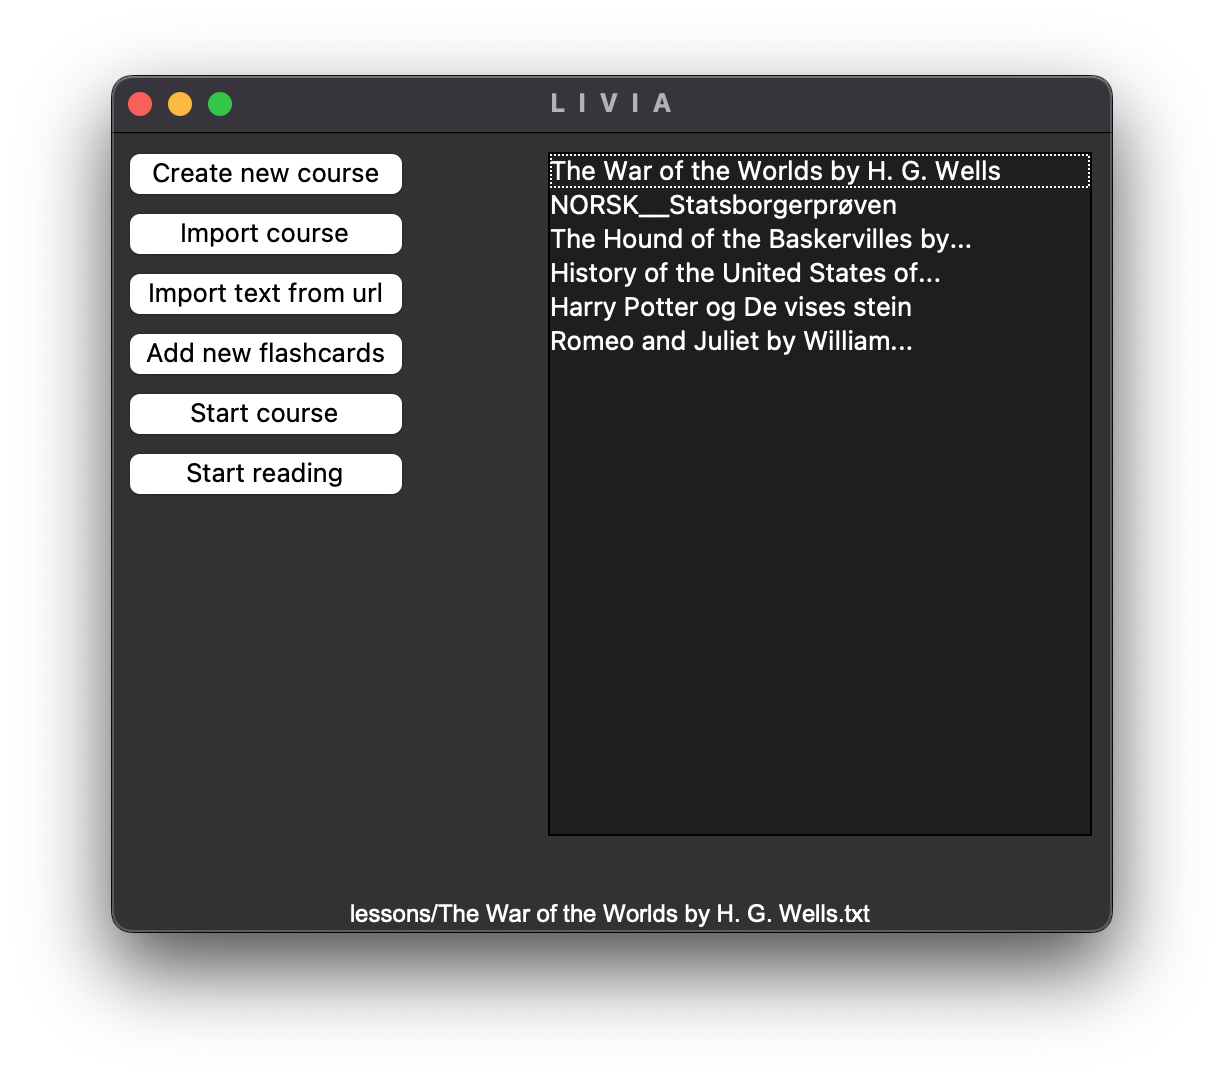
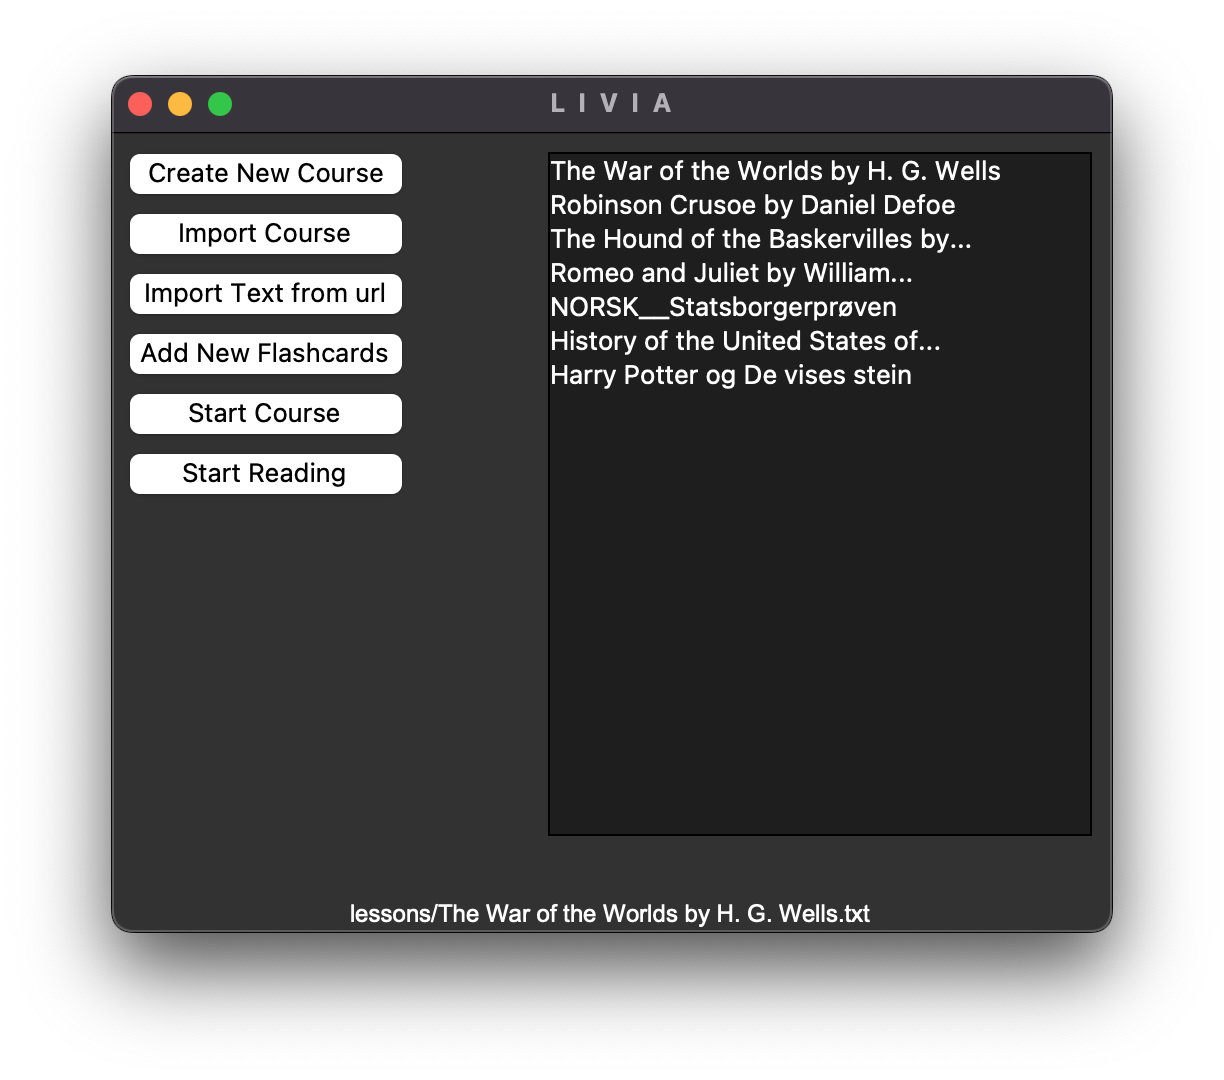
Readme file added.

diff --git a/start_course.py b/start_course.py
@@ -9,6 +9,12 @@ import configuration
 import book_configuration
 
 
+# TODO: algorytm powtórek
+# TODO: baza danych mysql
+# TODO: wybór języków
+# TODO: installation guide
+# TODO: testing
+
 class CourseDialog:
     def __init__(self, root, dictionary: dict, file_path: str, course_name: str):
         """
@@ -24,7 +30,8 @@ class CourseDialog:
         ui.center_window(self.top, 550, 400)
 
         self.dictionary = dictionary
-        self.question_word = random.choice(list(self.dictionary.keys()))    # Wylosowanie słowa z kluczy w słowniku.
+        self.copy_dictionary = dictionary.copy()   # Kopia do usuwania dobrych odpowiedzi podczas przepytywania.
+        self.question_word = random.choice(list(self.copy_dictionary.keys()))   # Wylosowanie słowa z kluczy w słowniku.
         self.show_translated_sentence = 0   # Liczba pomocnicza do wyświetlenia tłumaczenia zdania.
 
         frame_top = ui.create_frame(self.top, 'top')
@@ -49,8 +56,8 @@ class CourseDialog:
         self.course_name = course_name
 
         self.reverse_number = 1     # Zmienna kontrolująca tryb odwrócony
-        self.answer_word = self.dictionary[self.question_word][0]
-        self.sentence = self.dictionary[self.question_word][1]
+        self.answer_word = self.copy_dictionary[self.question_word][0]
+        self.sentence = self.copy_dictionary[self.question_word][1]
 
     def reverse(self):
         """
@@ -85,9 +92,9 @@ class CourseDialog:
         self.search_sentence_button.config(text='Search sentence', command=self.search_sentence)
 
         # Wylosowanie fiszki.
-        self.question_word = random.choice(list(self.dictionary.keys()))
-        self.answer_word = self.dictionary[self.question_word][0]
-        self.sentence = self.dictionary[self.question_word][1]
+        self.question_word = random.choice(list(self.copy_dictionary.keys()))
+        self.answer_word = self.copy_dictionary[self.question_word][0]
+        self.sentence = self.copy_dictionary[self.question_word][1]
 
         if self.reverse_number % 2 != 0:
             self.question_label.config(text=self.question_word, fg='systemTextColor')
@@ -154,8 +161,8 @@ class CourseDialog:
 
             if answer_correct:
                 self.question_label.config(text=self.question_word + '\n' + ', '.join(answer_correct), fg="green")
-                if len(self.dictionary) > 1:
-                    self.dictionary.pop(self.question_word)
+                if len(self.copy_dictionary) > 1:
+                    self.copy_dictionary.pop(self.question_word)
                 else:
                     messagebox.showinfo("THE END.", f"End of the flashcards.")
             self.answer_label.config(text=f"{self.answer_word}{'\n'} Sentence: {self.sentence}")
@@ -163,8 +170,8 @@ class CourseDialog:
         else:
             if answer_correct:
                 self.question_label.config(text=self.answer_word + '\n' + ', '.join(answer_correct), fg="green")
-                if len(self.dictionary) > 1:
-                    self.dictionary.pop(self.question_word)
+                if len(self.copy_dictionary) > 1:
+                    self.copy_dictionary.pop(self.question_word)
                 else:
                     messagebox.showinfo("THE END.", f"End of the flashcards.")
             self.answer_label.config(text=f"{self.question_word}{'\n'} Sentence: {self.sentence}")

diff --git a/main_window.py b/main_window.py
@@ -34,12 +34,12 @@ class LiviaApp:
         # Przypisanie fiszek do słownika.
         self.dictionary = configuration.import_flashcards_to_dictionary(self.file_path)
 
-        ui.create_button(self.master, "Create new course", self.create_new_course, 'place', {'x': 5, 'y': 5})
-        ui.create_button(self.master, "Import course", self.import_from_user_selection, 'place', {'x': 5, 'y': 35})
-        ui.create_button(self.master, "Import text from url", self.import_from_url, 'place', {'x': 5, 'y': 65})
-        ui.create_button(self.master, "Add new flashcards", self.new_word_input, 'place', {'x': 5, 'y': 95})
-        ui.create_button(self.master, "Start course", self.start_learning, 'place', {'x': 5, 'y': 125})
-        ui.create_button(self.master, "Start reading", self.start_reading, 'place', {'x': 5, 'y': 155})
+        ui.create_button(self.master, "Create New Course", self.create_new_course, 'place', {'x': 5, 'y': 5})
+        ui.create_button(self.master, "Import Course", self.import_from_user_selection, 'place', {'x': 5, 'y': 35})
+        ui.create_button(self.master, "Import Text from url", self.import_from_url, 'place', {'x': 5, 'y': 65})
+        ui.create_button(self.master, "Add New Flashcards", self.new_word_input, 'place', {'x': 5, 'y': 95})
+        ui.create_button(self.master, "Start Course", self.start_learning, 'place', {'x': 5, 'y': 125})
+        ui.create_button(self.master, "Start Reading", self.start_reading, 'place', {'x': 5, 'y': 155})
 
         # Stworzenie listbox do wyświetlenia listy wszystkich dostępnych kursów i do szybkiego wyboru kursu do nauki.
         self.listbox = ui.ListBox(self, self.courses_list)

diff --git a/book_configuration.py b/book_configuration.py
@@ -34,19 +34,14 @@ def book_text_cleaning(content: list) -> tuple:
     if book_content_checkout(content) is True:
         # Szukanie indeksu początku książki.
         start_index = next((i for i, line in enumerate(content) if 'START OF THE PROJECT GUTENBERG' in line), 0)
-        print(start_index)
         start_index = next(i + start_index + 1 for i, line in enumerate(content[start_index:])
                            if 'content' in line.lower())
-        print(start_index)
         start_index = next(i + start_index for i, line in enumerate(content[start_index:]) if line.strip())
-        print(start_index)
 
         # Szukanie indeksu końca książki.
         end_index = next((i for i, line in enumerate(content) if
                           'END OF THE PROJECT GUTENBERG EBOOK' in line), len(content))
-        print('end index:', end_index)
         end_index = next(end_index - i for i, line in enumerate(reversed(content[:end_index])) if line.strip())
-        print('end index:', end_index)
 
         # Wydzielenie tekstu książki pomiędzy znalezionymi indeksami.
         content = content[start_index:end_index]
@@ -58,7 +53,6 @@ def book_text_cleaning(content: list) -> tuple:
 
         # Usunięcie ewentualnych pustych linii z końca spisu treści, jeżeli spis treści został wyodrębniony.
         toc = content[:toc_index]
-        print(toc_index)
         if toc:
             while not toc[-1].strip():
                 toc.pop()

diff --git a/search_sentence.py b/search_sentence.py
@@ -90,10 +90,6 @@ class AddSentence:
                 if self.show_translated_sentence:
                     self.translate_label.config(text=self.translated_sentence)
 
-                # Wyłączenie przycisku 'save' jeżeli zdanie w fiszkach jest identyczne.
-                if self.current_sentence == self.founded_sentences[self.current_index]:
-                    self.save_button.config(state=tk.DISABLED)
-
             else:
                 self.original_sentence_label.config(fg="systemTextColor")
                 if self.show_translated_sentence:

diff --git a/new_course.py b/new_course.py
@@ -12,7 +12,6 @@ class CourseCreate:
         :param courses_list: Lista kursów do sprawdzenia, czy plik o podanej nazwie już istnieje.
         """
         self.top = tk.Toplevel(root)
-
         ui.center_window(self.top, 400, 100)
 
         # Zmienna pomocnicza do uzyskania informacji, czy metoda create_file została wykonana do końca.

diff --git a/README.md b/README.md
@@ -1,119 +1,108 @@
 # <center>L I V I A</center>
 
+<br>
 
-
-## Co to jest LIVIA?
-W tym repozytorium jest program GUI, który służy do nauki języka poprzez czytanie tekstów z zaimportowanych plików 
-tekstowych. W programie jest możliwość dodawania fiszek do kursów w trakcie czytania wraz z automatycznie dodawanymi 
-zdaniami i tłumaczeniami generowanymi za pomocą klucza API OpenAI.
-
-<sub>*Program na razie służy tylko do nauki języka angielskiego dla osób mówiących w języku polskim.</sub>
-
+## What is LIVIA?
+This repository contains a GUI program designed for language learning through reading imported text files. The program 
+enables users to create flashcards during reading, with automatically generated sentences and translations using the 
+OpenAI.
+<sub>*Currently, the program is ready for Polish speakers to learn English.</sub>
 
 ## Why?
-Korzystając z programu, można uczyć się języka w bardzo praktyczny sposób. Czytając tekst, widzimy od razu, w jakim 
-kontekście używane są słowa, dodatkowo możemy wygenerować tłumaczenie słowa pasujące do kontekstu w zdaniu, a nawet 
-w całym tekście. Program najlepiej działa podczas czytania książek, których darmowe wersje w formie czystego 
-tekstu można pobrać za darmo (np. ze strony Gutenberg.org).
-
+Using the program, you can learn the language in a very practical way. By reading the text, you immediately see how 
+words are used in context. Additionally, you can generate translations for words that fit the context. The program is 
+most effective when used for reading books, especially those available in free plain-text versions that can be 
+downloaded for free from gutenberg.org.
 
 ## How does it work?
-LIVIA używa API OpenAI do generowania tłumaczeń prezentując tłumacze zgodnie z kontekstem zawartym w wybranej frazie
-i tłumacząc zdania, zgodnie z kontekstem zawartym w tekście (prezentując tłumaczenie w stylu literackim pasującym 
-do danego autora w przypadku tłumaczeń z książek).
+LIVIA uses the OpenAI tool to help with translations. It shows translations in a way that makes sense for the chosen 
+phrase. It translates sentences in a style that matches the writing style of the author
 
+## Main program window.
+In the main window of the program, there is a list on the right side containing several default courses ready for 
+learning. In the course "The War of the Worlds by H. G. Wells," there are over 1500 prepared flashcards. Other courses 
+include either prepared books for reading or, as in the case of Norwegian language courses, only flashcards without 
+texts. You can choose a course from the list for learning. At the bottom of the window, there is a label displaying 
+the path of the currently opened course.
+<img src="./images/Main_window.png" alt="main window screenshot" width="500" height="400">
 
-## Główne okno programu.
-W głównym oknie programu. W liście po prawej stronie mamy kilka domyślnych kursów przygotowanych do nauki.
-W kursie "The War of the Worlds by H. G. Wells" jest przygotowanych ponad 1500 gotowych fiszek. Pozostałe kursy 
-zawierają tylko przygotowane książki do czytania lub jak w przypadku kursów w języku norweskim tylko fiszki bez tekstów. 
-Z listy wybieramy kurs do nauki. Na dole okna znajduje się etykieta z nazwą aktualnie otwartego kursu.
-![main window screenshot](./images/Main_window.png)
+###### Buttons:
+- "Create new course" - Opens a window to create a new course with an empty flashcard list.
+- "Import course" - Imports a file with a course from an external source (e.g. "Anki").
+- "Import text from URL" -  Opens a window to upload the content of a webpage with the text you want to connect with 
+a course.
+- "Add new flashcards" - Opens a window to add new flashcards.
+- "Start course" - Opens a window for flashcard examination.
+- "Start reading" - Opens a window for reading text and adding words to flashcards.
 
-### Przyciski:
-- "Create new course" - Otwiera okno do stworzenia nowego kursu z pustą listą fiszek.
-- "Import course" - Importuje plik z kursem z zewnętrznego źródła (np. z programu "Anki").
-- "Import text from url" - Otwiera okno do pobrania zawartości strony z tekstem, który chcemy połączyć z danym kursem.
-- "Add new flashcards" - Otwiera okno do dodawania nowych fiszek spoza okna "reading".
-- "Start course" - Otwiera okno do przepytywania z fiszek.
-- "Start reading" - Otwiera okno do czytania tekstu i dodawania słów do fiszek.
-
-## Okno "create new course".
+## Create New Course.
 ![create new course window screenshot](./images/Create_new_course_window.png)
-W oknie "create new course" tworząc nowy kurs, należy pamiętać, żeby nazwa pliku była w języku angielskim według wzoru: 
-'tytuł książki by autor' jak na zdjęciu). Wówczas generowane tłumaczenia będą najdokładniejsze.
+While creating a new course in the "Create New Course" window, it's important to ensure that the file name follows 
+the pattern in English: '{book title} by {author}' (as shown in the picture). This ensures the most accurate 
+generation of translations.
 
-## Importowanie pliku z zewnętrznego źródła.
-Podczas importowania pliku przez użytkownika przy użyciu "Import course" należy pamiętać, że jeżeli wewnątrz pliku układ 
-znaków będzie nieodpowiedni, plik nie zostanie zaimportowany. Program importuje jedynie dwa rodzaje plików tekstowych 
-pochodzące z programu LIVIA lub z Anki.
+## Importing a File from an External Source.
+When using the "Import Course" feature, it is important to note that the file won't be imported if the character 
+encoding inside the file is inappropriate. The program supports the import of two types of text files: 
+those from the "LIVIA" or "Anki".
 
-## Okno "Import text from url".
+## Import Text from URL.
 ![requests window screenshot](./images/Requests_window.png)
-W oknie do importowania tekstów do kursów podając nazwę pliku, użyj takiej samej nazwy, jaką ma kurs, z którym chcesz 
-go połączyć. Jeżeli chcesz samemu dopasować tekst, możesz edytować ręcznie plik .txt i zostawić tylko to, co chcesz.
+When importing texts into courses and providing a file name, use the same name as the course you want to connect it 
+with. If you wish to manually customize the text, you can edit the .txt file and keep only what you want.
 
-## Okno "Add new flashcards".
+## Add new flashcards.
 ![add new flashcards window screenshot](./images/Add_new_flashcards_window.png)
-W oknie "Add new flashcards" dodajemy nowe słowa i zdania do fiszek. Należy pamiętać, że w tym oknie nie działa 
-tłumaczenie zdań, a tłumaczenie słowa jest możliwe tylko, gdy jest wprowadzone zdanie. Tłumaczenia dla zwykłych tekstów 
-nie są jeszcze dostępne, dlatego korzystanie z tego okna w celu generowania tłumaczeń nie jest zalecane, a tłumaczenie 
-zdań nie jest obsługiwane.
+In the "Add New Flashcards" window, you can add new words and sentences to flashcards. Please note that sentence 
+translation does not work in this window; translation of words is only possible when a sentence is entered. Translations 
+for regular texts are not yet available, so using this window for generating translations is not recommended, and 
+sentence translation is not supported.
 
-## Okno "Start course".
+## Start course.
 ![start course window screenshot](./images/Start_course_window.png)
-W tym miejscu można sprawdzić znajomość słówek. Jeżeli odpowiedź będzie prawidłowa, słowa zostaną wyświetlone na 
-zielono. Po każdej odpowiedzi jest wyświetlane zdanie (jeżeli zostało dodane do fiszek). Fiszki są wyświetlane 
-w kolejności losowej.
+In this section, you can test your vocabulary. If the answer is correct, the words will be displayed in green. After 
+each answer, a sentence (if added to flashcards) is shown. Flashcards are displayed in random order.
 
-###### Opis przycisków:
-- "Pronunciation" - Odsłuchanie wymowy słowa.
-- "Reverse" - Odwrócenie fiszki.
-- "Next" - Przejście do następnej fiszki.
-- "Check" - Sprawdzenie odpowiedzi i wyświetlenie tłumaczenia i zdania (jeżeli istnieje).
-- "Search sentence" - Otwiera okno do wyszukiwania zdań dla aktualnego słowa w tekście przypisanym do danego kursu.
-- "Easy" - Przejście do następnej fiszki.
-- "Repetitions" - Dodaj słowo do powtórek (jeszcze nieobsługiwane).
-- "Play" - Odsłuchanie wymowy zdania.
+###### Button Descriptions:
+- "Pronunciation" - Listen to the pronunciation of the word.
+- "Reverse" - Reverse the flashcard.
+- "Next" - Move to the next flashcard.
+- "Check" - Check the answer and display the translation and sentence (if available).
+- "Search sentence" - Open a window to search for sentences for the current word in the text connected to the course.
+- "Easy" - Move to the next flashcard.
+- "Repetitions" - Add the word to repetitions (not yet supported).
+- "Play" - Listen to the pronunciation of the sentence.
 
-<sub>*Jeszcze nie można dodawać słów do powtórek. Z tego powodu zalecam zaimportowanie pliku z programu LIVIA do 
-popularnego programu do nauki z fiszek "Anki". Pliki z fiszkami są tworzone w formie kompatybilnej z obsługą w "Anki" 
-(kompatybilność działa w dwie strony, można także wygenerować plik z Anki i zaimportować go do programu LIVIA).</sub>
+<sub>*Currently, adding words to repetitions is not supported. For this reason, I recommend importing a file from 
+the "LIVIA" program into the popular flashcards learning program "Anki." Flashcards files are created in a format 
+compatible with "Anki" (compatibility works both ways; you can also generate a file from Anki and import it into 
+the LIVIA program).</sub>
 
-## Okno "Search sentence".
+## Search Sentence.
 ![search sentence window screenshot](./images/Search_sentence_window.png)
-Okno "Search sentence" służy do wyszukiwania zdań do aktualnej fiszki. Wyszukiwanie jest dostępne tylko w przypadku 
-gdy słowem (pytaniem) jest słowo, którego się uczymy. W oknie nie zostanie wyświetlone tłumaczenie zdania i możliwość 
-wygenerowania tłumaczenia będzie niedostępna, jeżeli odpowiedź nie została wcześniej zatwierdzona. Jeżeli zdanie, które 
-zostało znalezione i jest już dodane do fiszek, to wyświetla się ono w kolorze zielonym. 
+The "Search sentence" window is used to search for sentences related to the current flashcard. Searching is available 
+only when the word (question) is the word you are learning. The translation of the sentence will not be displayed in 
+the window, and the option to generate a translation will be unavailable if the answer has not been previously approved. 
+If the sentence that has been found is already added to the flashcards, it will be displayed in green color.
 
-## Okno "Reading".
+## Reading Window.
 ![reading window screenshot](./images/Reading_window.png)
-W tym oknie możemy przeglądać tekst do danego kursu. Stronę można zmienić za pomocą suwaka lub za pomocą przycisków. 
-Każde słowo jest interaktywne i po jego kliknięciu wywoła się wypełnione okno dodawania słówek do fiszek.
+In this window, you can explore the text content for the selected course. You can navigate through the pages using 
+the slider or the buttons. Each word is clickable, triggering a pop-up window for adding words to flashcards.
 
-<sub>*Aby opcja tłumaczenia była aktywna, należy skopiować swój klucz OpenAI do 'Your_API_KEY.txt' w folderze config.</sub>
+<sub>*To enable the translation option, you must copy your OpenAI key to 'Your_API_KEY.txt' in the config folder.</sub>
 
-<br>
+---
 
 ### Technologies:
 
 <img src="./images/icons/python.png" width="35" height="35" alt="Python"><span>&nbsp;&nbsp;&nbsp;</span>
-<img src="./images/icons/mysql.png" width="52" height="35" alt="git"><span>&nbsp;&nbsp;&nbsp;</span>
 <img src="./images/icons/openai.png" width="35" height="35" alt="openai"><span>&nbsp;&nbsp;&nbsp;</span>
 <img src="./images/icons/Git.png" width="84" height="35" alt="git"><span>&nbsp;&nbsp;&nbsp;</span>
 <img src="https://resources.jetbrains.com/storage/products/company/brand/logos/PyCharm_icon.png" alt="PyCharm logo." width="35" height="35">
 
-<br>
 
-### ToDo:
-- algorytm powtórek
-- baza danych mysql
-- wybór języków
-- installation guide
-- testing
-
-
-
-Contact
+---
+### Contact:
 Created by lteresak@yahoo.com - Don't hesitate to contact me!
+Three or more...
